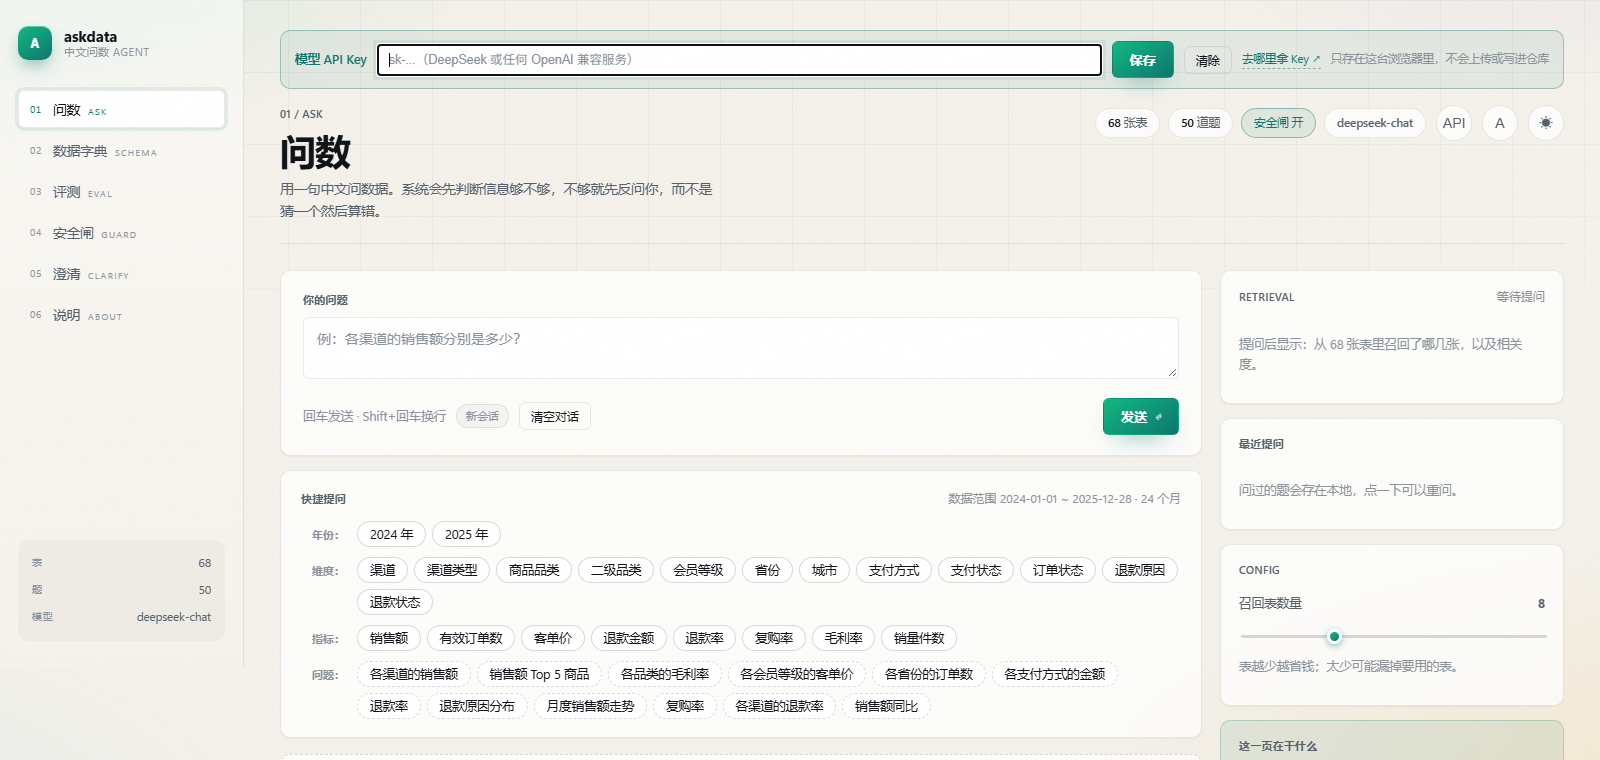
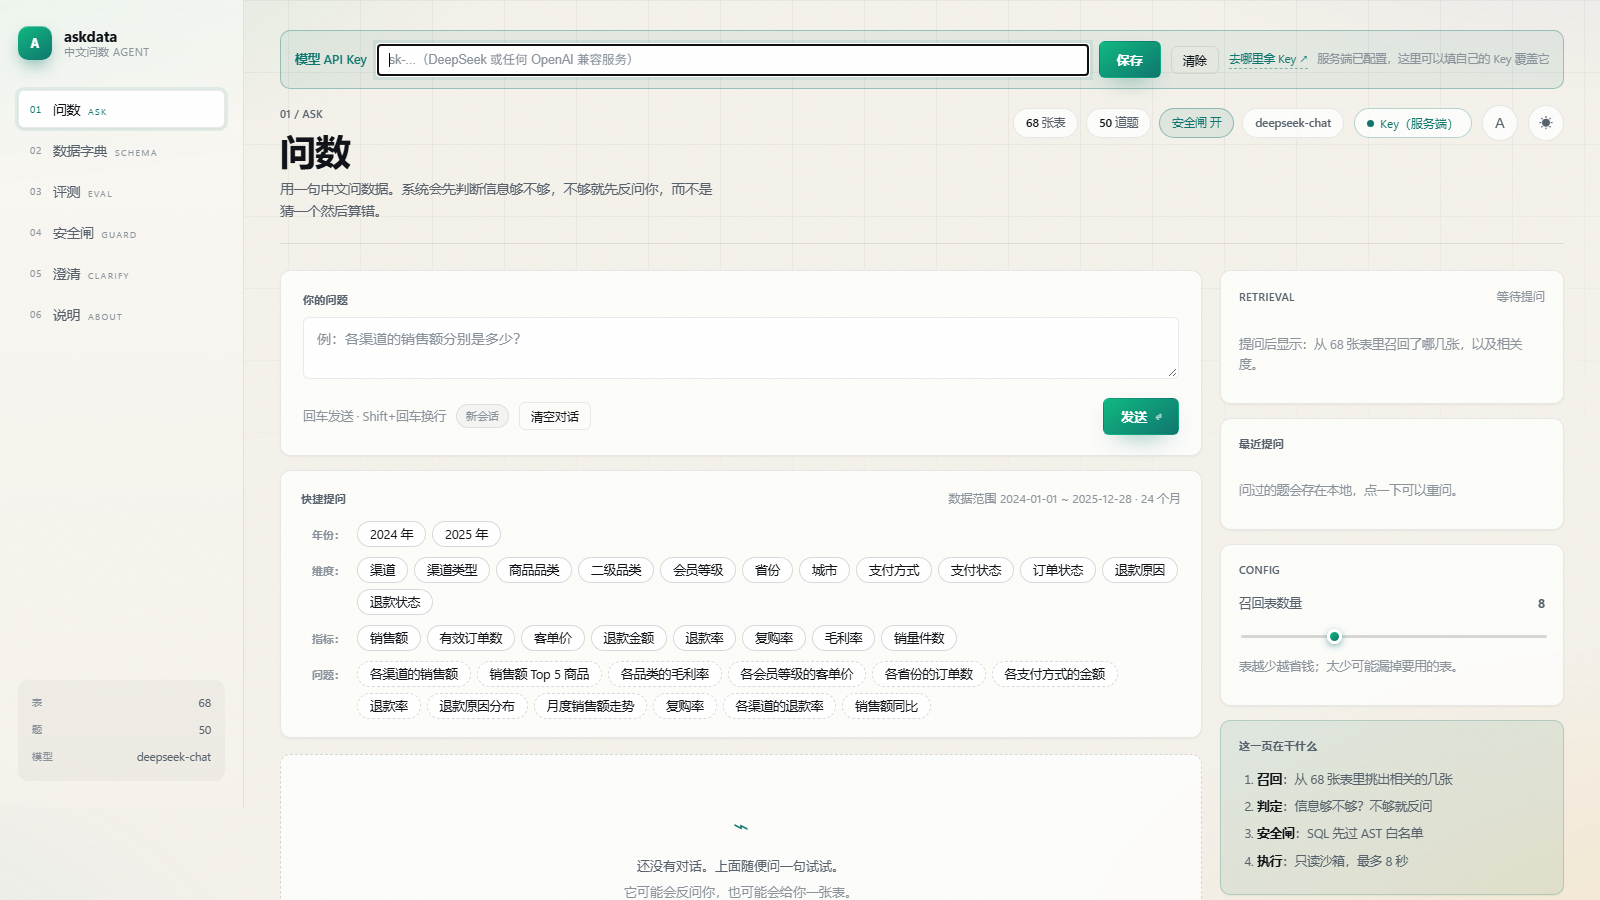
feat: 模型 Key 入口改成状态驱动——没配时自动展开并高亮，配好后收敛成小徽章
之前的灰色小按钮基本等于没有入口。现在：
- 未配置：顶栏徽章变橙色警示色（带呼吸点），配置栏自动铺开
- 已配置：收成一个绿点徽章（本地 / 服务端两种来源可区分）
- 新增 ?key=1 深链和「去哪里拿 Key」链接
前端验收补 3 项固定这两种状态。

diff --git a/web/app.js b/web/app.js
@@ -24,6 +24,7 @@ const state = {
   sessionId: null,
   token: '',
   apiKey: '',
+  serverKey: false,
   year: null,
   dim: null,
   metric: null,
@@ -227,23 +228,50 @@ function showKeyBar(message) {
   $("#key-input").focus();
 }
 
+/* 配置状态决定"要不要打扰用户"：
+   没配 Key → 徽章变成醒目的警示色，配置栏直接铺开
+   配好了  → 收起来，只留一个小徽章 */
 function refreshKeyState() {
   const bar = $("#key-bar");
-  const tip = $("#key-toggle");
-  const has = Boolean(state.apiKey);
-  if (tip) {
-    tip.classList.toggle("is-on", has);
-    tip.title = has ? "模型 Key 已配置（点击修改）" : "配置模型 API Key";
+  const chip = $("#key-toggle");
+  if (!chip) return;
+
+  const local = Boolean(state.apiKey);
+  const server = Boolean(state.serverKey);
+  const ready = local || server;
+
+  chip.classList.toggle("warn", !ready);
+  chip.classList.toggle("ok", ready);
+  const text = $("#key-text");
+  if (text) {
+    text.textContent = ready
+      ? local
+        ? `Key 已配置`
+        : `Key（服务端）`
+      : "未配置 Key";
   }
-  if (bar) $("#key-msg").textContent = has
-    ? `已配置（${state.apiKey.slice(0, 6)}…${state.apiKey.slice(-4)}），只存在这台浏览器里`
-    : "只存在这台浏览器里，不会上传或写进仓库";
+  chip.title = ready
+    ? local
+      ? `已配置 ${state.apiKey.slice(0, 6)}…${state.apiKey.slice(-4)}（点击修改）`
+      : "服务端已配置 API Key（点击可换成本地 Key）"
+    : "还没有模型 API Key，提问会失败——点这里配置";
+
+  if (bar) {
+    bar.classList.toggle("is-warn", !ready);
+    $("#key-msg").textContent = local
+      ? `已配置（${state.apiKey.slice(0, 6)}…${state.apiKey.slice(-4)}），只存在这台浏览器里`
+      : server
+        ? "服务端已配置，这里可以填自己的 Key 覆盖它"
+        : "还没有 Key，提问会失败。粘贴后保存即可，只存在这台浏览器里";
+  }
+
+  // 没配好时把配置栏直接铺开，不指望用户去点那个按钮
+  if (!ready) bar.hidden = false;
 }
 
 function bindKeyBar() {
   state.apiKey = localStorage.getItem("askdata-api-key") || "";
   refreshKeyState();
-  if (!state.apiKey) $("#key-bar").hidden = true;
   // 支持 ?key=1 直接展开，方便把"去配 key"的链接发给别人
   if (new URLSearchParams(location.search).get("key") === "1") showKeyBar();
 
@@ -2044,6 +2072,9 @@ async function boot() {
       api("/api/reports"),
     ]);
     Object.assign(state, { overview, questions, attacks, reports });
+    // overview.model 为「（未配置 API Key）」说明服务端也没有可用密钥
+    state.serverKey = !String(overview.model || "").includes("未配置");
+    refreshKeyState();
 
     // 数据范围单独取，失败也不该拖垮整页
     try {

diff --git a/web/styles.css b/web/styles.css
@@ -1227,3 +1227,47 @@ html[data-scale="lg"] .msg-user { font-size: 14.5px; }
   border-bottom: 1px dashed color-mix(in srgb, var(--accent) 45%, transparent);
 }
 .key-help:hover { border-bottom-style: solid; }
+
+/* ---------------- 模型 Key 状态徽章 ---------------- */
+
+.key-chip {
+  display: inline-flex; align-items: center; gap: 6px;
+  height: 30px; padding: 0 12px;
+  border-radius: 999px; border: 1px solid var(--line);
+  background: var(--surface); color: var(--muted);
+  font-size: 12px; font-family: inherit; cursor: pointer;
+  transition: background .15s ease, border-color .15s ease, color .15s ease;
+}
+.key-dot { width: 7px; height: 7px; border-radius: 50%; background: var(--dim); flex: 0 0 auto; }
+
+/* 没配 Key：橙色 + 轻微呼吸，让人一眼看到 */
+.key-chip.warn {
+  color: #92400e;
+  border-color: color-mix(in srgb, #f59e0b 55%, transparent);
+  background: color-mix(in srgb, #f59e0b 16%, transparent);
+  font-weight: 600;
+}
+.key-chip.warn .key-dot {
+  background: #d97706;
+  box-shadow: 0 0 0 0 color-mix(in srgb, #f59e0b 60%, transparent);
+  animation: keyPulse 2.2s ease-out infinite;
+}
+@keyframes keyPulse {
+  0%   { box-shadow: 0 0 0 0 color-mix(in srgb, #f59e0b 55%, transparent); }
+  70%  { box-shadow: 0 0 0 7px transparent; }
+  100% { box-shadow: 0 0 0 0 transparent; }
+}
+@media (prefers-reduced-motion: reduce) {
+  .key-chip.warn .key-dot { animation: none; }
+}
+
+/* 配好了：低调的绿点 */
+.key-chip.ok { color: var(--accent); border-color: color-mix(in srgb, var(--accent) 30%, transparent); }
+.key-chip.ok .key-dot { background: var(--accent); }
+
+/* 配置栏未就绪时的警示底 */
+.key-bar.is-warn {
+  border-color: color-mix(in srgb, #f59e0b 45%, transparent);
+  background: color-mix(in srgb, #f59e0b 10%, transparent);
+}
+.key-bar.is-warn .auth-title { color: #92400e; }

diff --git a/scripts/frontend_audit.js b/scripts/frontend_audit.js
@@ -107,7 +107,7 @@ global.clearTimeout = () => {};
 let src = fs.readFileSync("web/app.js", "utf8");
 src += `\n;globalThis.__t = { renderAnswer, rankingList, lineChart, renderAttribution, classifyFailure,
   loadMultiturn, setupMultiturn, runCompare, setupCompare, ensureQuick, composeQuestion, state,
-  renderHints, highlightSQL, statusOf, mtReason, tablesOf, initTheme, setPage, appendAssistant, issuesHTML, updateSessionChip, emptyThreadHTML };`;
+  renderHints, highlightSQL, statusOf, mtReason, tablesOf, initTheme, setPage, appendAssistant, issuesHTML, updateSessionChip, emptyThreadHTML, refreshKeyState };`;
 eval(src);
 const T = globalThis.__t;
 
@@ -183,6 +183,16 @@ check("会话提示 · 显示轮数", (els["#session-chip"].textContent || "").i
 T.updateSessionChip(0);
 check("会话提示 · 归零显示新会话", (els["#session-chip"].textContent || "").includes("新会话"));
 check("空对话占位 · 可复原", T.emptyThreadHTML().includes("还没有对话"));
+
+/* ---------- 3d. 模型 Key 状态 ---------- */
+T.state.apiKey = "";
+T.state.serverKey = false;
+T.refreshKeyState();
+check("Key 状态 · 未配置时提示配置", (els["#key-text"].textContent || "").includes("未配置"), els["#key-text"].textContent);
+check("Key 状态 · 未配置时配置栏自动展开", els["#key-bar"].hidden === false);
+T.state.serverKey = true;
+T.refreshKeyState();
+check("Key 状态 · 服务端已配时收敛", (els["#key-text"].textContent || "").includes("服务端"), els["#key-text"].textContent);
 
 /* ---------- 4. 澄清卡片的提示 ---------- */
 const hintsHtml = T.renderHints(load("hints"));

diff --git a/web/index.html b/web/index.html
@@ -57,7 +57,7 @@
       </div>
       <div class="topbar-right">
         <div class="topbar-chips" id="topbar-chips"></div>
-        <button class="theme-toggle" id="key-toggle" title="配置模型 API Key">API</button>
+        <button class="key-chip" id="key-toggle" title="配置模型 API Key"><span class="key-dot"></span><span class="key-text" id="key-text">Key</span></button>
     <button class="theme-toggle" id="scale-toggle" title="字号">A</button>
         <button class="theme-toggle" id="theme-toggle" title="切换深浅色">
           <span class="t-sun">☀</span><span class="t-moon">☾</span>
